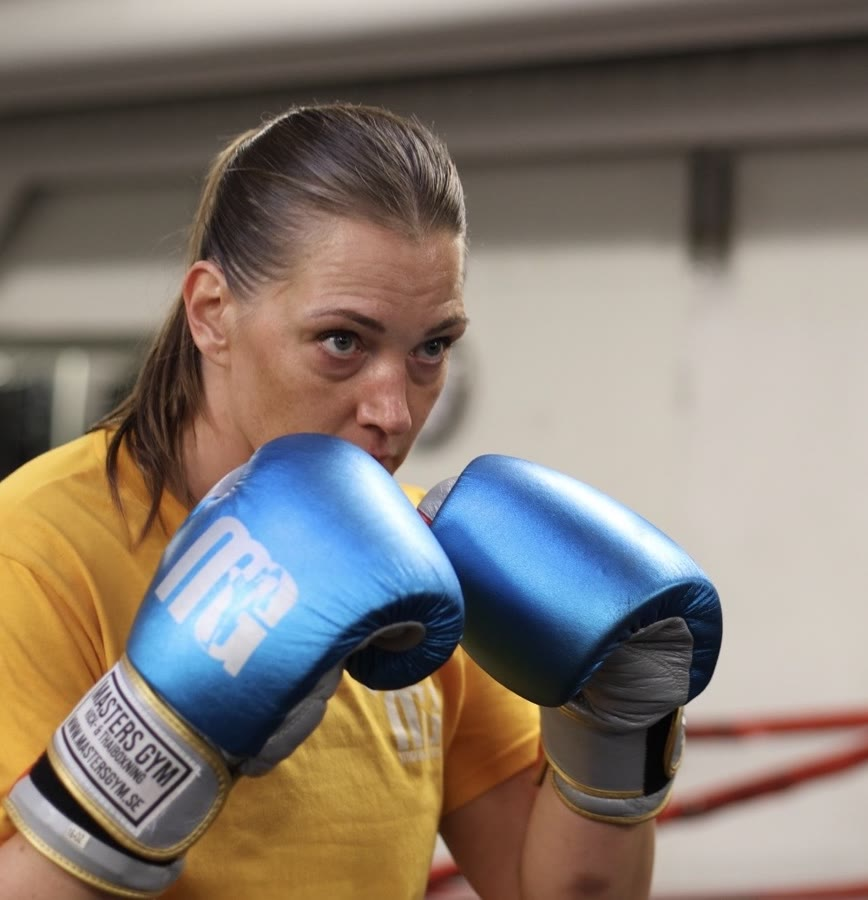
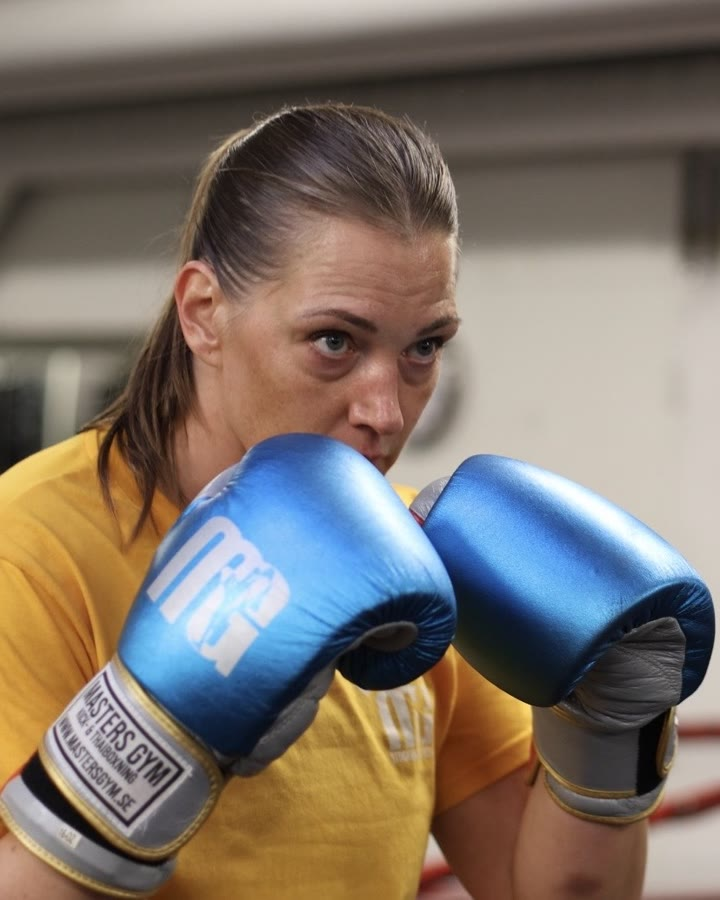
Våra pass drop-in cards: 4:5 crops and full-bleed on mobile
Boxning re-cropped from the original to 720x900, Fyspass trimmed to
600x750 (Morgon/Lunch is already 4:5). On mobile the three cards use
object-fit:cover so the photo fills the card with no black bars;
Fyspass anchored left so the kicker stays in frame. Desktop unchanged.

Claude-Session: https://claude.ai/code/session_016nwXwYwse5yHkNjJ3Me7G7

diff --git a/vara-pass.html b/vara-pass.html
@@ -18,7 +18,7 @@
 <link rel="preconnect" href="https://fonts.googleapis.com">
 <link rel="preconnect" href="https://fonts.gstatic.com" crossorigin>
 <link href="https://fonts.googleapis.com/css2?family=Barlow+Condensed:ital,wght@1,900&family=DM+Sans:wght@300;400;500;600&display=swap" rel="stylesheet">
-<link rel="stylesheet" href="assets/css/shared.css?v=20261008170400">
+<link rel="stylesheet" href="assets/css/shared.css?v=20261027161449">
 </head>
 <body>
 
@@ -256,15 +256,15 @@
       <div class="finder3d-wrap dropin-xf">
         <div class="finder3d-stage" id="dropinStage">
           <div class="finder3d-card" id="tl-3">
-            <img id="class6_img" src="class-boxning.jpg?v=2" alt="Boxning — Masters Gym Stockholm" loading="lazy">
+            <img id="class6_img" src="class-boxning.jpg?v=3" alt="Boxning — Masters Gym Stockholm" loading="lazy">
             <div class="finder3d-card-overlay"><h4 class="finder3d-card-title" data-i18n="class6_title">BOXNING</h4></div>
           </div>
           <div class="finder3d-card" id="tl-4">
-            <img id="class4_img" src="class-fyspass.jpg" alt="Fyspass — Masters Gym Stockholm" loading="lazy">
+            <img id="class4_img" src="class-fyspass.jpg?v=2" alt="Fyspass — Masters Gym Stockholm" loading="lazy">
             <div class="finder3d-card-overlay"><h4 class="finder3d-card-title" data-i18n="class4_title">FYSPASS</h4></div>
           </div>
           <div class="finder3d-card" id="tl-5">
-            <img id="class7_img" src="class-morgonlunch.jpg" alt="Morgon/Lunch — Masters Gym Stockholm" loading="lazy">
+            <img id="class7_img" src="class-morgonlunch.jpg?v=2" alt="Morgon/Lunch — Masters Gym Stockholm" loading="lazy">
             <div class="finder3d-card-overlay"><h4 class="finder3d-card-title" data-i18n="class7_title">MORGON/LUNCH</h4></div>
           </div>
           <button type="button" class="finder3d-prev" id="dropinPrev" aria-label="Föregående">&#8592;</button>

diff --git a/assets/css/shared.css b/assets/css/shared.css
@@ -1257,7 +1257,7 @@ button{cursor:pointer;font-family:var(--sans)}
 .dropin-xf-item.active{opacity:1;visibility:visible;transition:opacity .45s ease .15s,visibility 0s}
 .dropin-xf-item .timeline-badge{display:inline-block;margin-bottom:14px}
 .dropin-xf-item .finder3d-bio{margin-bottom:10px}
-@media(max-width:768px){.dropin-xf .finder3d-card-title{font-size:clamp(28px,8.5vw,44px);letter-spacing:.08em}}
+@media(max-width:768px){.dropin-xf .finder3d-card-title{font-size:clamp(28px,8.5vw,44px);letter-spacing:.08em}.dropin-xf .finder3d-card img{object-fit:cover;object-position:center 30%}.dropin-xf #class4_img{object-position:left 30%}}
 
 /* Om oss photo is ungraded, so it gets the documentary photo filter
    (same family as founder, corporate and kids images). */

diff --git a/coacher.html b/coacher.html
@@ -18,7 +18,7 @@
 <link rel="preconnect" href="https://fonts.googleapis.com">
 <link rel="preconnect" href="https://fonts.gstatic.com" crossorigin>
 <link href="https://fonts.googleapis.com/css2?family=Barlow+Condensed:ital,wght@1,900&family=DM+Sans:wght@300;400;500;600&display=swap" rel="stylesheet">
-<link rel="stylesheet" href="assets/css/shared.css?v=20261008170400">
+<link rel="stylesheet" href="assets/css/shared.css?v=20261027161449">
 </head>
 <body>
 

diff --git a/foretag.html b/foretag.html
@@ -18,7 +18,7 @@
 <link rel="preconnect" href="https://fonts.googleapis.com">
 <link rel="preconnect" href="https://fonts.gstatic.com" crossorigin>
 <link href="https://fonts.googleapis.com/css2?family=Barlow+Condensed:ital,wght@1,900&family=DM+Sans:wght@300;400;500;600&display=swap" rel="stylesheet">
-<link rel="stylesheet" href="assets/css/shared.css?v=20261008170400">
+<link rel="stylesheet" href="assets/css/shared.css?v=20261027161449">
 </head>
 <body>
 

diff --git a/index.html b/index.html
@@ -42,7 +42,7 @@
 <link rel="preconnect" href="https://fonts.googleapis.com">
 <link rel="preconnect" href="https://fonts.gstatic.com" crossorigin>
 <link href="https://fonts.googleapis.com/css2?family=Barlow+Condensed:ital,wght@1,900&family=DM+Sans:wght@300;400;500;600&display=swap" rel="stylesheet">
-<link rel="stylesheet" href="assets/css/shared.css?v=20261008170400">
+<link rel="stylesheet" href="assets/css/shared.css?v=20261027161449">
 </head>
 <body>
 

diff --git a/junior.html b/junior.html
@@ -18,7 +18,7 @@
 <link rel="preconnect" href="https://fonts.googleapis.com">
 <link rel="preconnect" href="https://fonts.gstatic.com" crossorigin>
 <link href="https://fonts.googleapis.com/css2?family=Barlow+Condensed:ital,wght@1,900&family=DM+Sans:wght@300;400;500;600&display=swap" rel="stylesheet">
-<link rel="stylesheet" href="assets/css/shared.css?v=20261008170400">
+<link rel="stylesheet" href="assets/css/shared.css?v=20261027161449">
 </head>
 <body>
 

diff --git a/nyheter.html b/nyheter.html
@@ -18,7 +18,7 @@
 <link rel="preconnect" href="https://fonts.googleapis.com">
 <link rel="preconnect" href="https://fonts.gstatic.com" crossorigin>
 <link href="https://fonts.googleapis.com/css2?family=Barlow+Condensed:ital,wght@1,900&family=DM+Sans:wght@300;400;500;600&display=swap" rel="stylesheet">
-<link rel="stylesheet" href="assets/css/shared.css?v=20261008170400">
+<link rel="stylesheet" href="assets/css/shared.css?v=20261027161449">
 </head>
 <body>
 

diff --git a/pt.html b/pt.html
@@ -18,7 +18,7 @@
 <link rel="preconnect" href="https://fonts.googleapis.com">
 <link rel="preconnect" href="https://fonts.gstatic.com" crossorigin>
 <link href="https://fonts.googleapis.com/css2?family=Barlow+Condensed:ital,wght@1,900&family=DM+Sans:wght@300;400;500;600&display=swap" rel="stylesheet">
-<link rel="stylesheet" href="assets/css/shared.css?v=20261008170400">
+<link rel="stylesheet" href="assets/css/shared.css?v=20261027161449">
 </head>
 <body>
 

diff --git a/schema.html b/schema.html
@@ -18,7 +18,7 @@
 <link rel="preconnect" href="https://fonts.googleapis.com">
 <link rel="preconnect" href="https://fonts.gstatic.com" crossorigin>
 <link href="https://fonts.googleapis.com/css2?family=Barlow+Condensed:ital,wght@1,900&family=DM+Sans:wght@300;400;500;600&display=swap" rel="stylesheet">
-<link rel="stylesheet" href="assets/css/shared.css?v=20261008170400">
+<link rel="stylesheet" href="assets/css/shared.css?v=20261027161449">
 </head>
 <body>
 
